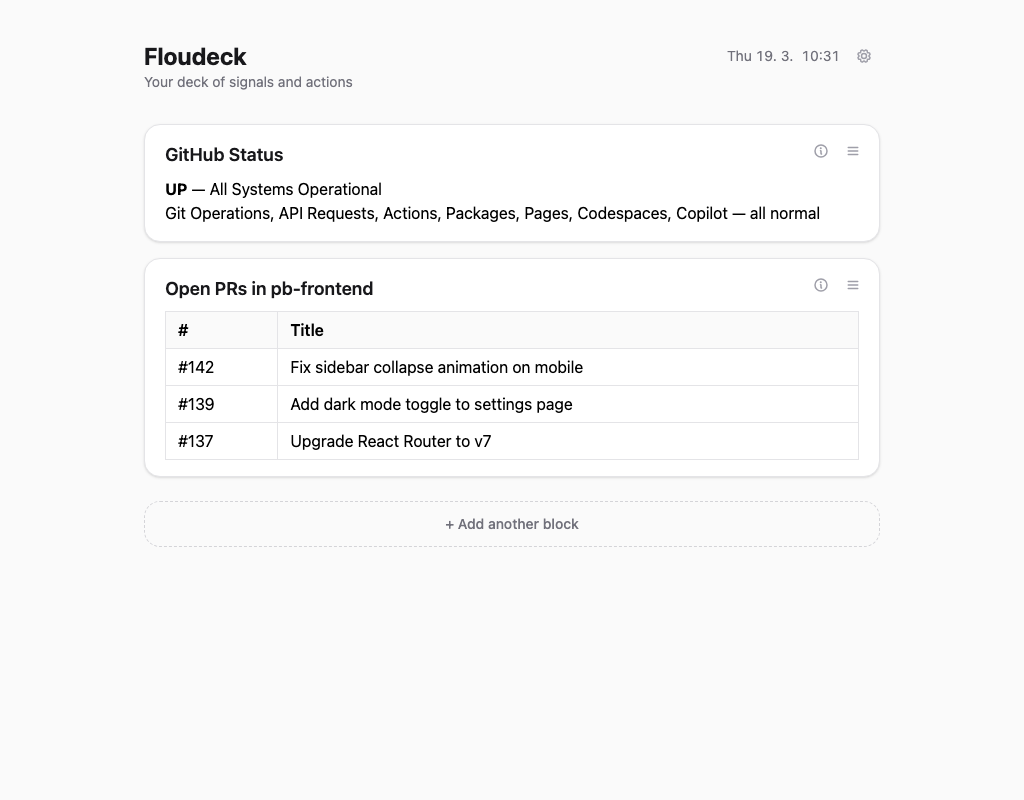
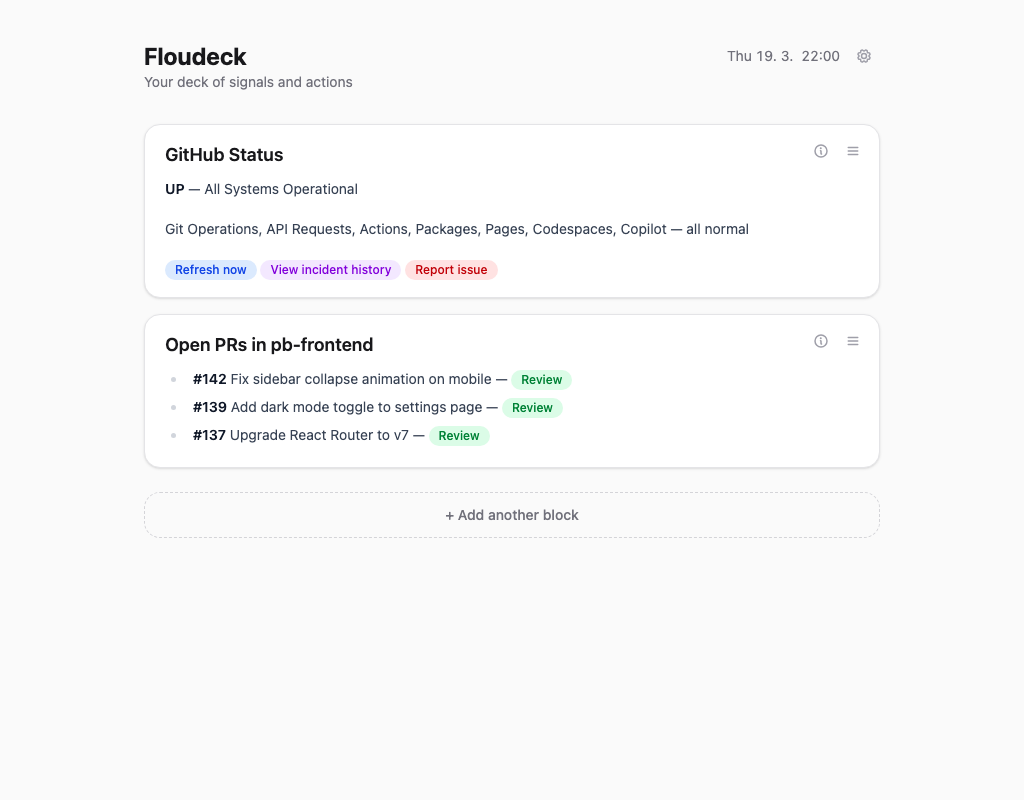
Update screenshot mock data to showcase action links
GitHub Status block shows colored action pills (blue, purple, red).
Open PRs block shows inline green Review actions per list item.

diff --git a/scripts/screenshot.ts b/scripts/screenshot.ts
@@ -26,7 +26,9 @@ const EXAMPLE_BLOCKS = [
 
 **UP** — All Systems Operational
 
-Git Operations, API Requests, Actions, Packages, Pages, Codespaces, Copilot — all normal`,
+Git Operations, API Requests, Actions, Packages, Pages, Codespaces, Copilot — all normal
+
+[Refresh now|blue](/action/BLOCK_UUID/refresh) [View incident history|purple](/action/BLOCK_UUID/history) [Report issue|red](/action/BLOCK_UUID/report)`,
   },
   {
     prompt:
@@ -35,11 +37,9 @@ Git Operations, API Requests, Actions, Packages, Pages, Codespaces, Copilot — 
     intervalUnit: "hours",
     mockMarkdown: `# Open PRs in pb-frontend
 
-| # | Title |
-|---|-------|
-| #142 | Fix sidebar collapse animation on mobile |
-| #139 | Add dark mode toggle to settings page |
-| #137 | Upgrade React Router to v7 |`,
+- **#142** Fix sidebar collapse animation on mobile — [Review|green](/action/BLOCK_UUID/review?pr=142)
+- **#139** Add dark mode toggle to settings page — [Review|green](/action/BLOCK_UUID/review?pr=139)
+- **#137** Upgrade React Router to v7 — [Review|green](/action/BLOCK_UUID/review?pr=137)`,
   },
 ];
 
